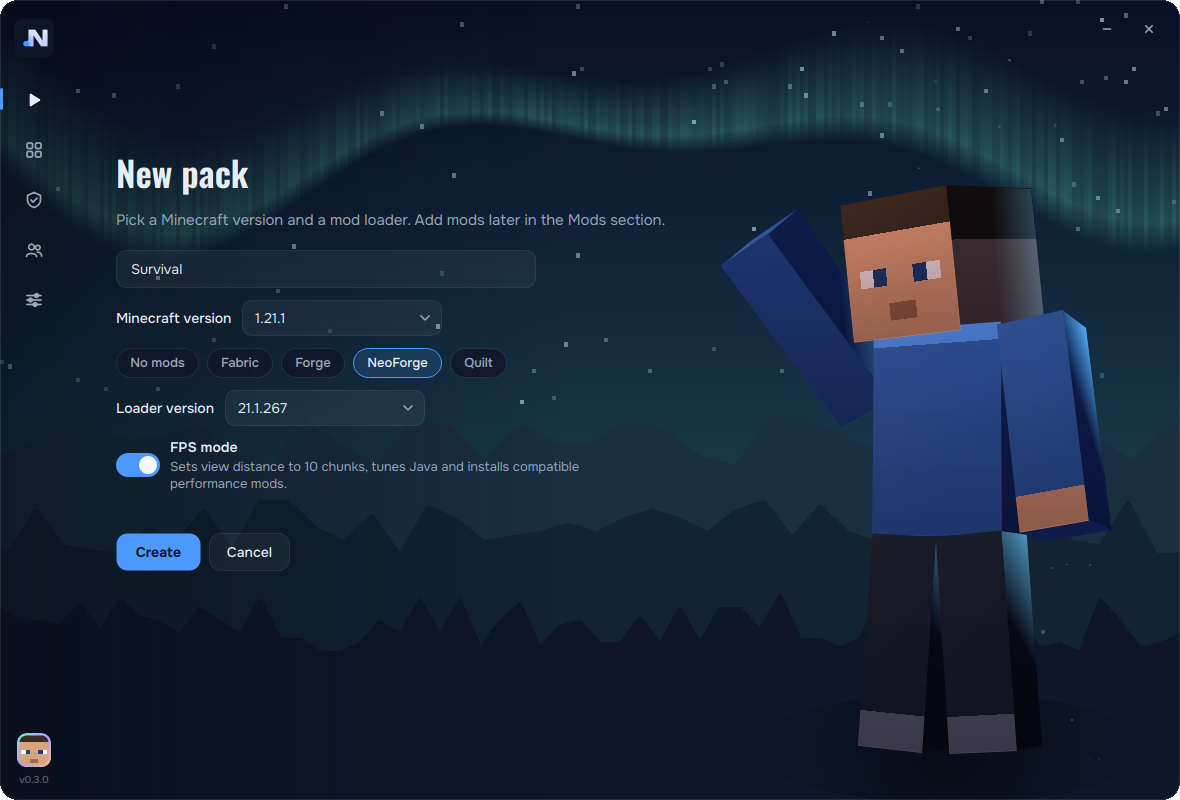
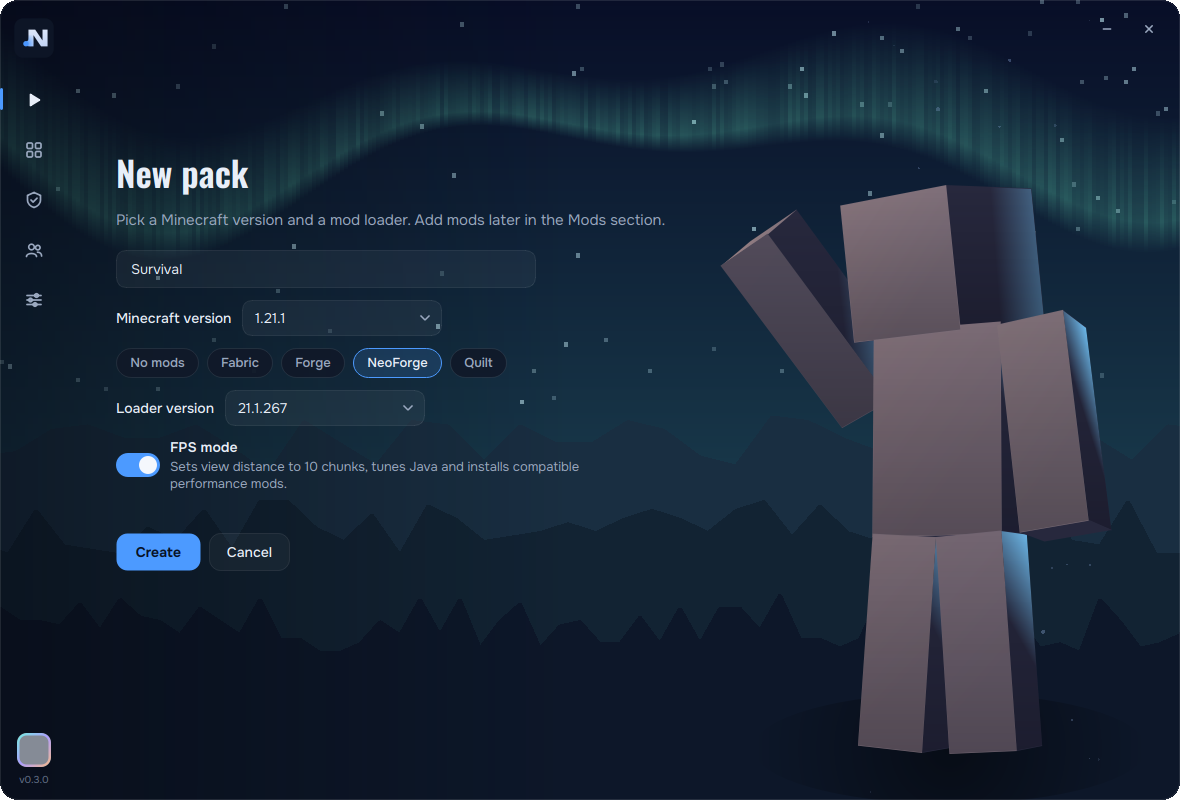
Use a plain gray player model

Changed region(s): [[0.6102, 0.2188, 0.9458, 0.9375], [0.0, 0.9062, 0.061, 0.9688]]

diff --git a/launcher/netlauncher/ui/pages/profile.py b/launcher/netlauncher/ui/pages/profile.py
@@ -15,7 +15,7 @@ from netlauncher.net import HttpError
 from netlauncher.ui import jobs, supporter, profile_style
 from netlauncher.ui.pages.common import confirm, hbox, human_date, label, vbox
 from netlauncher.ui.pages.home import ELY_SKIN_UPLOAD
-from netlauncher.ui.skinview import SkinRenderer, face
+from netlauncher.ui.skinview import SkinRenderer, default_skin, face
 from netlauncher.ui.widgets import AccentButton, Avatar, CompactCombo, GhostButton, GlassCard
 
 
@@ -182,10 +182,10 @@ class ProfilePage(QWidget):
         if not self.own:
             def got_skin(value):
                 if shiboken6.isValid(self) and request == self.skin_request:
-                    self.skin_model.set_skin(value)
+                    self.skin_model.set_skin(default_skin())
                     self.window.scene.update()
                     self.avatar.set_face(face(self.skin_model.skin_png))
-                    self.skin_status.setText("" if value else t("Скин недоступен. Показана стандартная модель."))
+                    self.skin_status.clear()
             jobs.run(lambda progress: skin.fetch(self.ctx.http, name, self.ctx.lay.cache),
                      on_done=got_skin, on_error=lambda _: got_skin(None))
         self.comments.open(name, self.own, self.avatar)
@@ -278,7 +278,7 @@ class ProfilePage(QWidget):
     def show_account_skin(self, value, account_id):
         acc = self.ctx.accounts.load()
         if self.own and acc and acc.uuid == account_id:
-            self.skin_model.set_skin(value)
+            self.skin_model.set_skin(default_skin())
             self.window.scene.profile_studio.skin = self.skin_model
             self.window.scene.update()
             self.skin_status.clear()

diff --git a/launcher/netlauncher/ui/skinview.py b/launcher/netlauncher/ui/skinview.py
@@ -25,30 +25,14 @@ def _png(img: QImage) -> bytes:
 
 
 def default_skin() -> Skin:
-    """Our own neutral default skin (not Mojang's): blue jacket, dark trousers."""
+    """A plain gray mannequin used when the launcher has no visible skin."""
     img = QImage(64, 64, QImage.Format.Format_ARGB32)
     img.fill(QColor(0, 0, 0, 0))
     p = QPainter(img)
-    colors = {"head": QColor("#D9A47E"), "body": QColor("#2E62B8"), "arm_r": QColor("#2E62B8"),
-              "arm_l": QColor("#2E62B8"), "leg_r": QColor("#1B2235"), "leg_l": QColor("#1B2235")}
+    gray = QColor("#858B96")
     for name, box in parts(64, 64, slim=False).items():
-        for face_name, _c, (u, v, w, h), _n in faces(box):
-            p.fillRect(u, v, w, h, colors[name])
-    p.fillRect(8, 0, 8, 8, QColor("#3A2A22"))      # hair on top
-    p.fillRect(8, 8, 8, 2, QColor("#3A2A22"))      # fringe
-    for x in (0, 16, 24):
-        p.fillRect(x, 8, 8, 3, QColor("#3A2A22"))  # hair on sides/back
-    p.fillRect(24, 8, 8, 8, QColor("#3A2A22"))
-    p.fillRect(9, 12, 2, 1, QColor("#F4F7FC"))
-    p.fillRect(13, 12, 2, 1, QColor("#F4F7FC"))
-    p.fillRect(10, 12, 1, 1, QColor("#1D3F7A"))
-    p.fillRect(13, 12, 1, 1, QColor("#1D3F7A"))
-    p.fillRect(11, 14, 2, 1, QColor("#9C6B52"))
-    p.fillRect(20, 20, 8, 1, QColor("#4C9AFF"))    # collar line in the launcher accent
-    for u, v in ((44, 20), (36, 52)):
-        p.fillRect(u, v + 10, 4, 2, QColor("#D9A47E"))  # hands
-    for u, v in ((4, 20), (20, 52)):
-        p.fillRect(u, v + 10, 4, 2, QColor("#5E6B82"))  # shoes
+        for _face_name, _c, (u, v, w, h), _n in faces(box):
+            p.fillRect(u, v, w, h, gray)
     p.end()
     return Skin(_png(img), False)
 

diff --git a/launcher/netlauncher/ui/pages/home.py b/launcher/netlauncher/ui/pages/home.py
@@ -31,7 +31,7 @@ from netlauncher.settings import recommended_ram_mb
 from netlauncher.ui import anim, jobs
 from netlauncher.ui.pages import common
 from netlauncher.ui.pages.common import hbox, label, plural, vbox
-from netlauncher.ui.skinview import face
+from netlauncher.ui.skinview import default_skin, face
 from netlauncher.ui.theme import DISPLAY as DISPLAY_FAMILY, font, qcolor
 from netlauncher.ui.widgets import AccentButton, GhostButton, GlassCard, SmoothBar, Toggle
 
@@ -975,17 +975,14 @@ class HomePage(QWidget):
         self.account_skin = sk
         page = getattr(self.window, "_pages", {}).get("profile")
         if page and hasattr(page, "show_account_skin"):
-            page.show_account_skin(sk, self.skin_account)
-        if sk is None:
-            return
-        if self._preview_png is None:
-            self._scene_skin(sk)
+            page.show_account_skin(default_skin(), self.skin_account)
+        self._scene_skin(default_skin())
         if self.window is not None and hasattr(self.window, "set_face"):
-            self.window.set_face(face(sk.png))
+            self.window.set_face(face(default_skin().png))
 
     def _scene_skin(self, sk) -> None:
         if self.window is not None and hasattr(self.window, "skin"):
-            self.window.skin.set_skin(sk)
+            self.window.skin.set_skin(default_skin())
 
     def _load_catalog(self) -> None:
         self.startup_done = False
